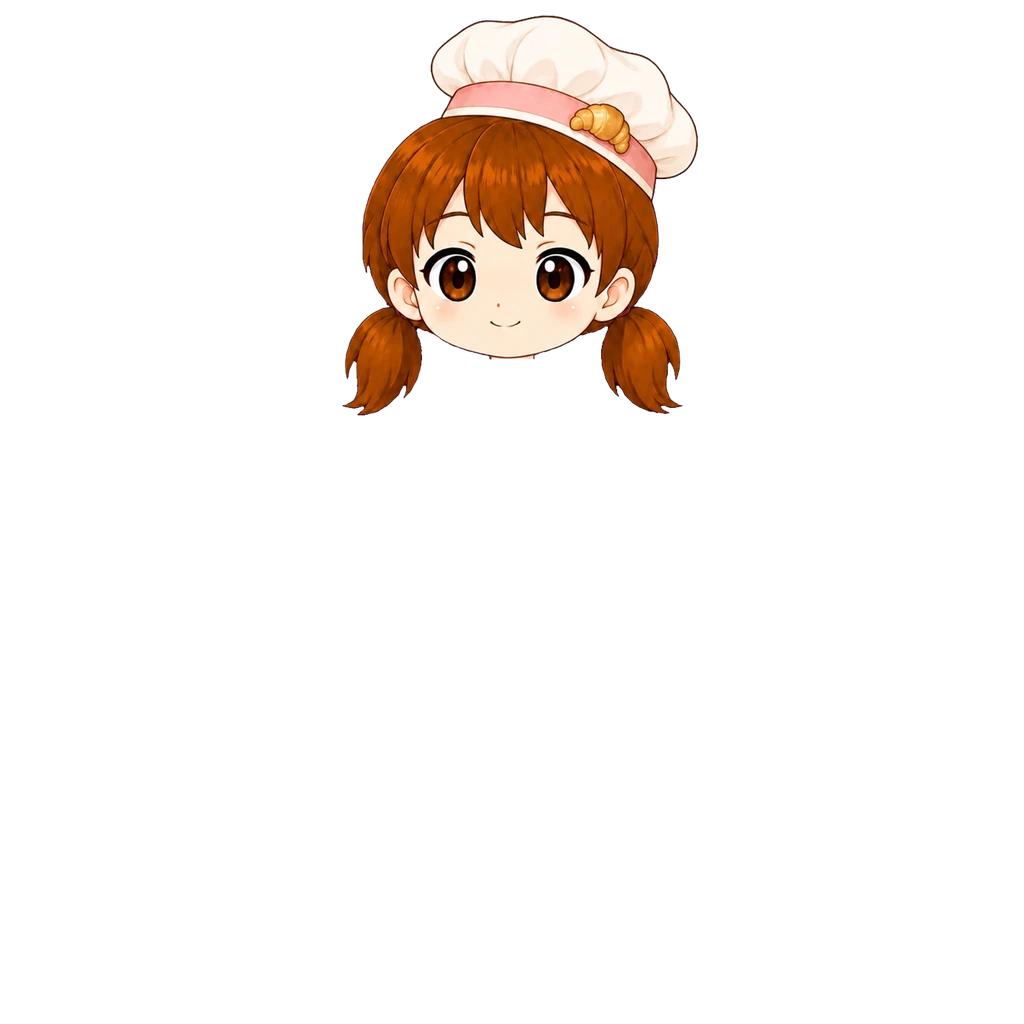
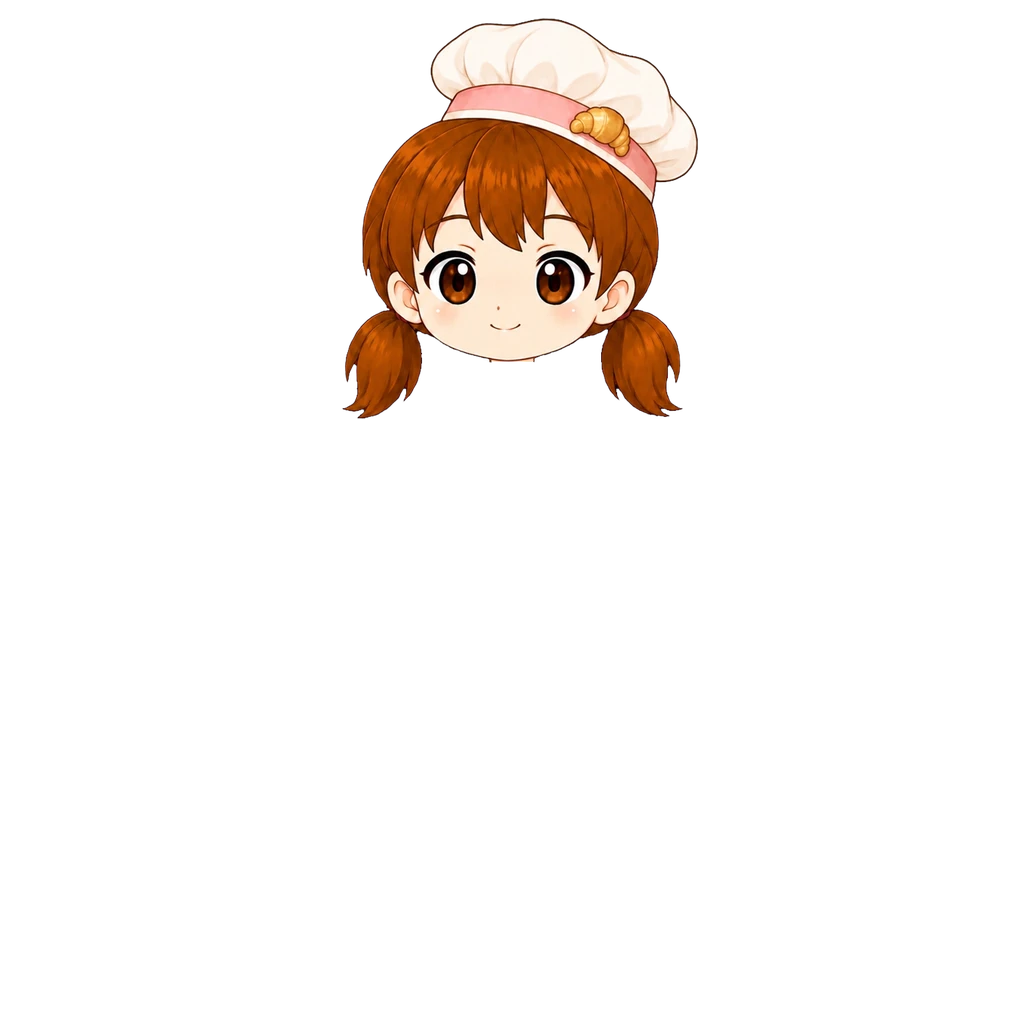
요리사 모자(여아) 아래로 3 (#881)
원점 (341,15)→(341,18). img ?v=4.

Claude-Session: https://claude.ai/code/session_018maNuYqDfFyRSe9uKpZhPR

diff --git a/src/data/avatarEquipment.js b/src/data/avatarEquipment.js
@@ -235,8 +235,9 @@ export const AVATAR_CATALOG = [
      들꽃 머리띠와 같은 방식(hidesHead) — 얼굴 템플릿 매칭(일치 0.924)으로 배율 0.660, 원점 (348,28). 아래는 자르지 않음.
      탑재 상자 (349,28,691,413).
      [2026-10-04] 사용자 조정 — 3% 크게(배율 0.6798, 턱·얼굴 가운데 고정, 원점 (343,18)). 탑재 상자 (344,18,696,415). img ?v=2.
-     [2026-10-04] 1% 더 크게(배율 0.6866, 원점 (341,15)). 탑재 상자 (342,15,698,416). img ?v=3. */
-  { id: "hat_chef_girl",  slot: "hat",   label: "요리사 모자", emoji: "👩🍳", price:DECOR_PRICE.rare, rarity: "rare", theme: "common", forGender: "girl", hidesHead: true, img: "assets/avatar/hat/chef-hat-girl.webp?v=3", thumb: "assets/avatar/thumb/hat_chef_girl.webp" },
+     [2026-10-04] 1% 더 크게(배율 0.6866, 원점 (341,15)). 탑재 상자 (342,15,698,416). img ?v=3.
+     [2026-10-04] 아래로 3(원점 (341,18)). 탑재 상자 (342,18,698,419). img ?v=4. */
+  { id: "hat_chef_girl",  slot: "hat",   label: "요리사 모자", emoji: "👩🍳", price:DECOR_PRICE.rare, rarity: "rare", theme: "common", forGender: "girl", hidesHead: true, img: "assets/avatar/hat/chef-hat-girl.webp?v=4", thumb: "assets/avatar/thumb/hat_chef_girl.webp" },
   /* 남아 사파리 모자 [2026-10-02] — 모자+얼굴 한 장(사용자 원화)이라 hidesHead: 쓰면 머리카락 머리 장이 빠지고
      민머리 위에 얹힌다(베이스 v10 구조). 얼굴(눈~입) 템플릿 매칭으로 맞춤(배율 0.4065 · 일치 0.970).
      원화에 달린 목은 z50 이라 높은 깃(우주복·후드·도토리)을 덮어서 기본 머리 장처럼 y404 에서 잘랐다. */

diff --git a/art-src/README.md b/art-src/README.md
@@ -606,4 +606,4 @@ bbox로 여백만 잘라내고 배포본은 높이 480px로 축소했다(전부 
 | summer-visor-boy-src.webp | **썸머 썬캡 원화 남아 — 모자+얼굴 한 장 (사용자 원화 2026-10-04)** — 520×456 투명 배경, 주황 썬캡(조개 장식). hidesHead 로 기본 머리를 대신한다. 얼굴 템플릿 매칭(일치 0.953)으로 배율 0.676·원점 (339,83), y404 아래 자름. 탑재 상자 (339,83,691,391). **[2026-10-04 조정]** 2% 크게(0.6895)·아래로 5, 원점 (335,82) · img ?v=2. 다시 아래로 3(원점 (335,85)) · img ?v=3. 상점 그림은 원화를 세로 160px 로 | avatar/hat/summer-visor-boy.webp · thumb/hat_visor_boy.webp |
 | pirate-hat-boy-src.webp | **해적 모자 원화 남아 — 모자+얼굴 한 장 (사용자 원화 2026-10-04)** — 574×475 투명 배경, 남색 삼각 해적모(금 테두리·해골). hidesHead 로 기본 머리를 대신한다. 얼굴 템플릿 매칭(일치 0.972)으로 배율 0.712·원점 (318,58), y404 아래 자름. 탑재 상자 (318,58,727,396). **[2026-10-04 조정]** 아래로 4·왼쪽 1(원점 (317,62)) · img ?v=2. 상점 그림은 원화를 세로 160px 로 | avatar/hat/pirate-hat-boy.webp · thumb/hat_pirate_boy.webp |
 | post-cap-girl-src.webp | **우편부 모자 원화 여아 — 모자+얼굴 한 장 (사용자 원화 2026-10-04)** — 파란 우편모(날개 편지 배지) + 얼굴·양갈래 머리. hidesHead 로 여아 기본 머리를 대신한다. 얼굴 템플릿 매칭(일치 0.916)으로 배율 0.668·원점 (351,68), 아래는 자르지 않음. 탑재 상자 (351,68,678,418). **[2026-10-04 조정]** 3% 크게(0.688)·오른쪽 1, 원점 (347,60) · img ?v=2. 아래로 1(원점 (347,61)) · img ?v=3. 1% 크게(0.6949, 원점 (345,58)) · img ?v=4. 상점 그림은 원화를 세로 160px 로 | avatar/hat/post-cap-girl.webp · thumb/hat_post_girl.webp |
-| chef-hat-girl-src.webp | **요리사 모자 원화 여아 — 모자+얼굴 한 장 (사용자 원화 2026-10-04)** — 흰 요리사 모자(분홍 띠·크루아상 장식) + 얼굴·양갈래 머리. hidesHead 로 여아 기본 머리를 대신한다. 얼굴 템플릿 매칭(일치 0.924)으로 배율 0.660·원점 (348,28), 아래는 자르지 않음. 탑재 상자 (349,28,691,413). **[2026-10-04 조정]** 3% 크게(0.6798, 원점 (343,18)) · img ?v=2. 1% 더 크게(0.6866, 원점 (341,15)) · img ?v=3. 상점 그림은 원화를 세로 160px 로 | avatar/hat/chef-hat-girl.webp · thumb/hat_chef_girl.webp |
+| chef-hat-girl-src.webp | **요리사 모자 원화 여아 — 모자+얼굴 한 장 (사용자 원화 2026-10-04)** — 흰 요리사 모자(분홍 띠·크루아상 장식) + 얼굴·양갈래 머리. hidesHead 로 여아 기본 머리를 대신한다. 얼굴 템플릿 매칭(일치 0.924)으로 배율 0.660·원점 (348,28), 아래는 자르지 않음. 탑재 상자 (349,28,691,413). **[2026-10-04 조정]** 3% 크게(0.6798, 원점 (343,18)) · img ?v=2. 1% 더 크게(0.6866, 원점 (341,15)) · img ?v=3. 아래로 3(원점 (341,18)) · img ?v=4. 상점 그림은 원화를 세로 160px 로 | avatar/hat/chef-hat-girl.webp · thumb/hat_chef_girl.webp |
